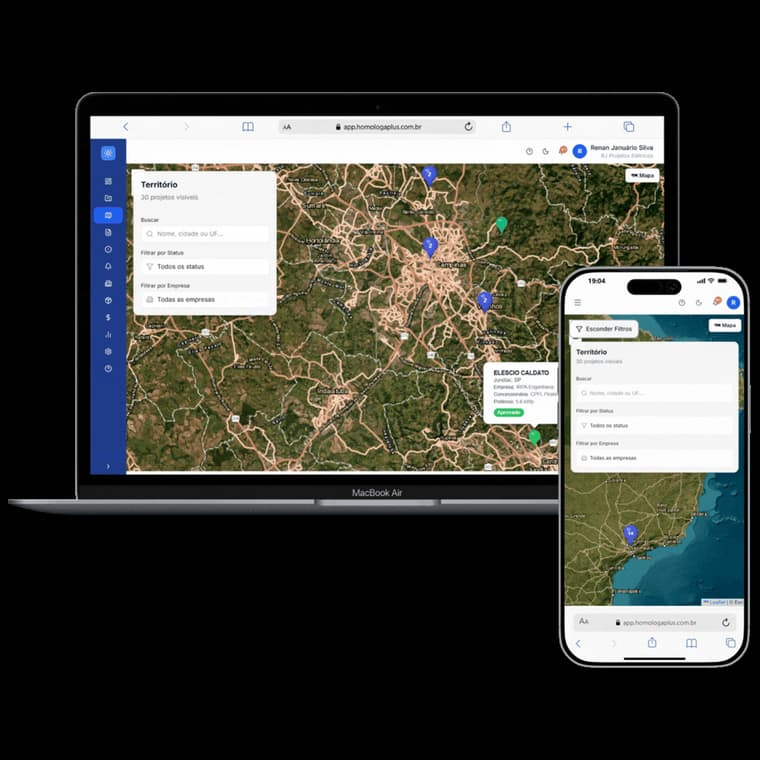
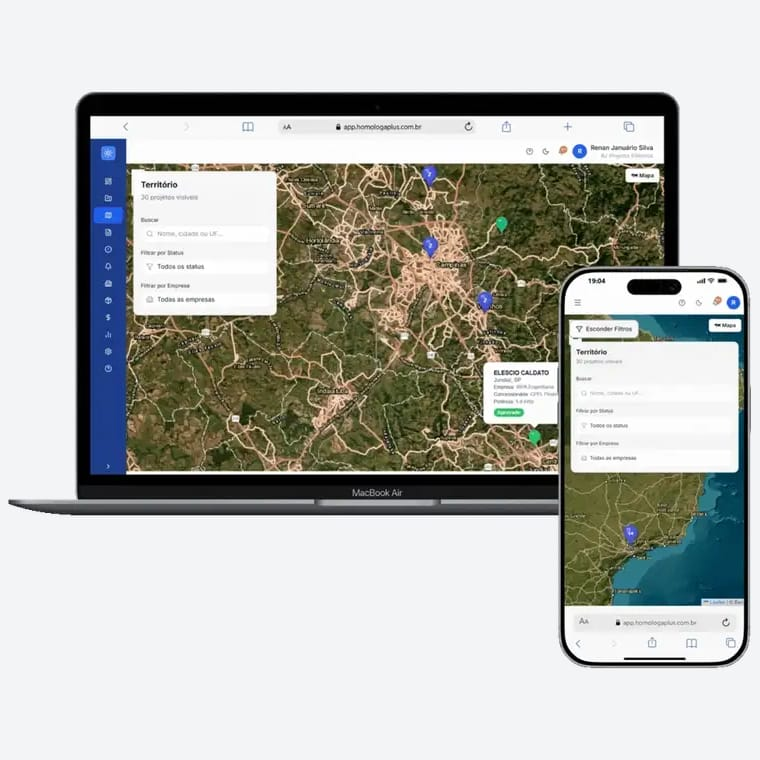
fix(features): card do mapa sem moldura (mockup transparente flutua, sem fundo)
A imagem 'Visão de território' e um mockup transparente (notebook+celular); estava dentro do card branco com borda/sombra, que aparecia como fundo atras dos aparelhos. Card agora frameless (sem bg/borda/sombra de caixa) + drop-shadow que segue o formato. Regenera o jpg de fallback achatado no tom da secao (#F3F4F6) para nao exibir fundo.

diff --git a/src/components/Features.tsx b/src/components/Features.tsx
@@ -14,6 +14,7 @@ type Feature = {
   h?: number;
   alt: string;
   flip?: boolean;
+  frameless?: boolean;
   badge?: { title: string; sub: string };
 };
 
@@ -75,6 +76,7 @@ const features: Feature[] = [
     h: 760,
     alt: 'Mapa com a distribuição geográfica dos projetos de homologação',
     flip: true,
+    frameless: true,
   },
 ];
 
@@ -146,7 +148,7 @@ const Features = () => {
                     </span>
                   </div>
                 )}
-                <div className="rounded-2xl overflow-hidden border border-slate-200 bg-white shadow-[0_30px_60px_-30px_rgba(15,23,42,0.35)]">
+                <div className={f.frameless ? '' : 'rounded-2xl overflow-hidden border border-slate-200 bg-white shadow-[0_30px_60px_-30px_rgba(15,23,42,0.35)]'}>
                   <picture>
                     <source srcSet={f.webp || f.img.replace('.png', '.webp')} type="image/webp" />
                     <img
@@ -154,7 +156,7 @@ const Features = () => {
                       alt={f.alt}
                       width={f.w ?? 1919}
                       height={f.h ?? 964}
-                      className="w-full h-auto block"
+                      className={`block h-auto w-full ${f.frameless ? 'drop-shadow-2xl' : ''}`}
                       loading="lazy"
                     />
                   </picture>
